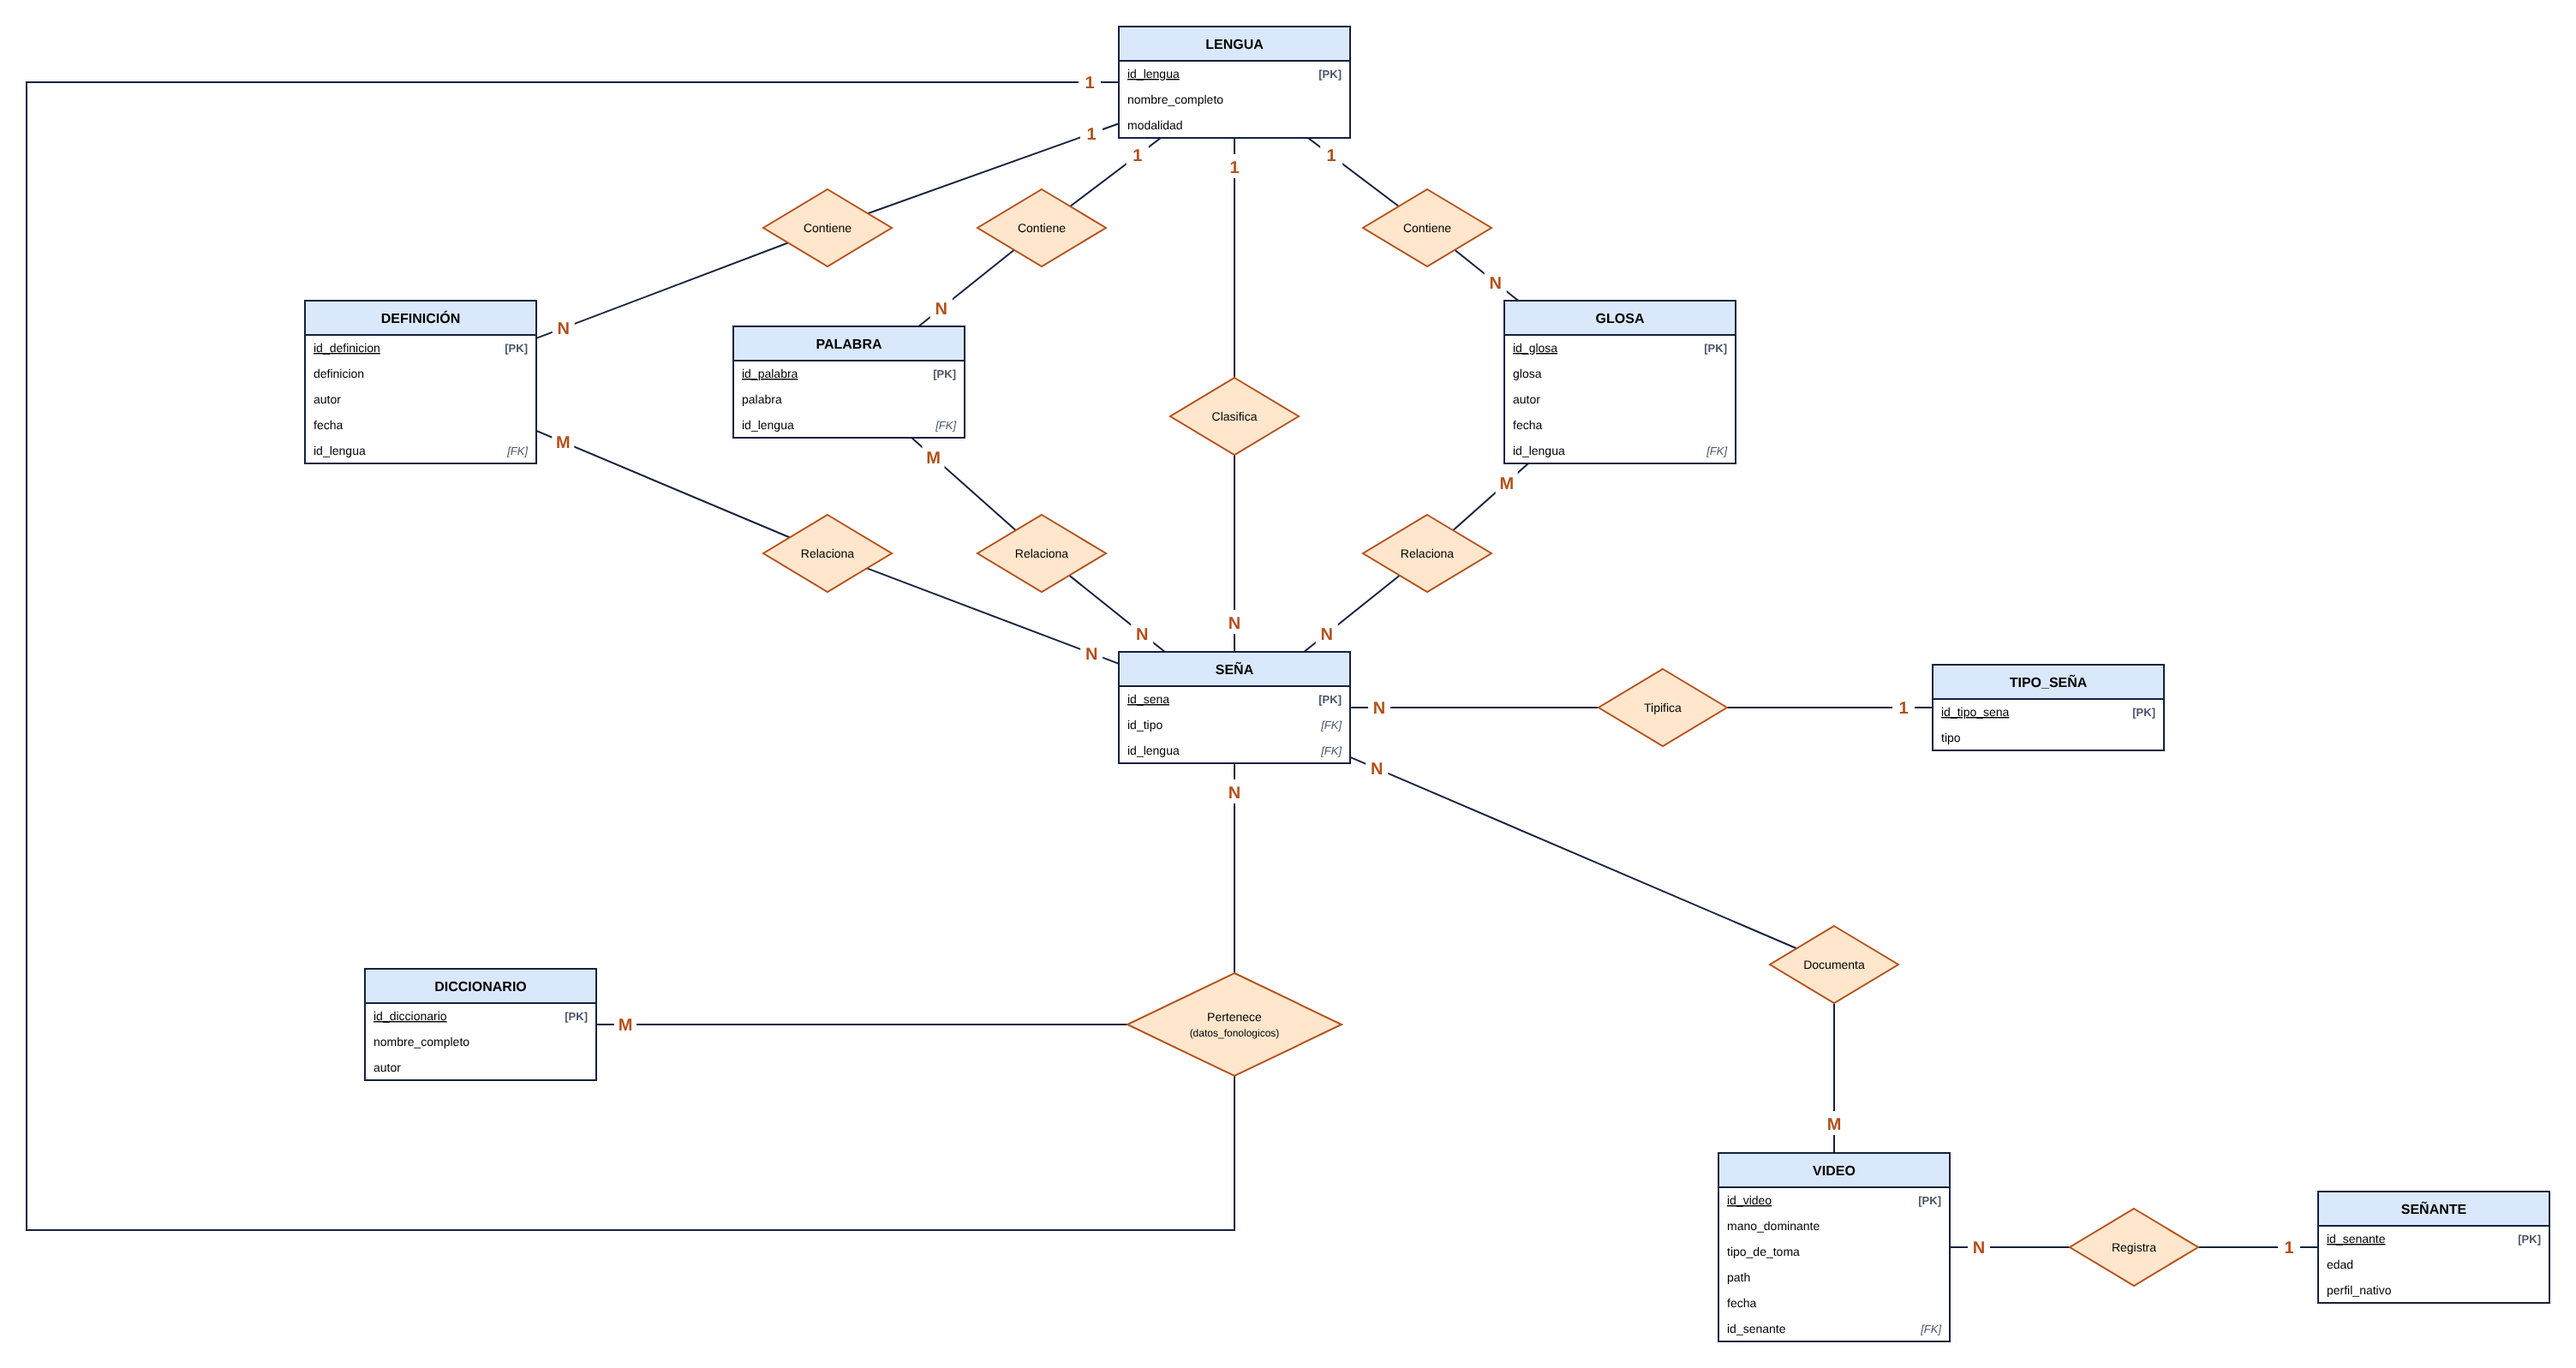
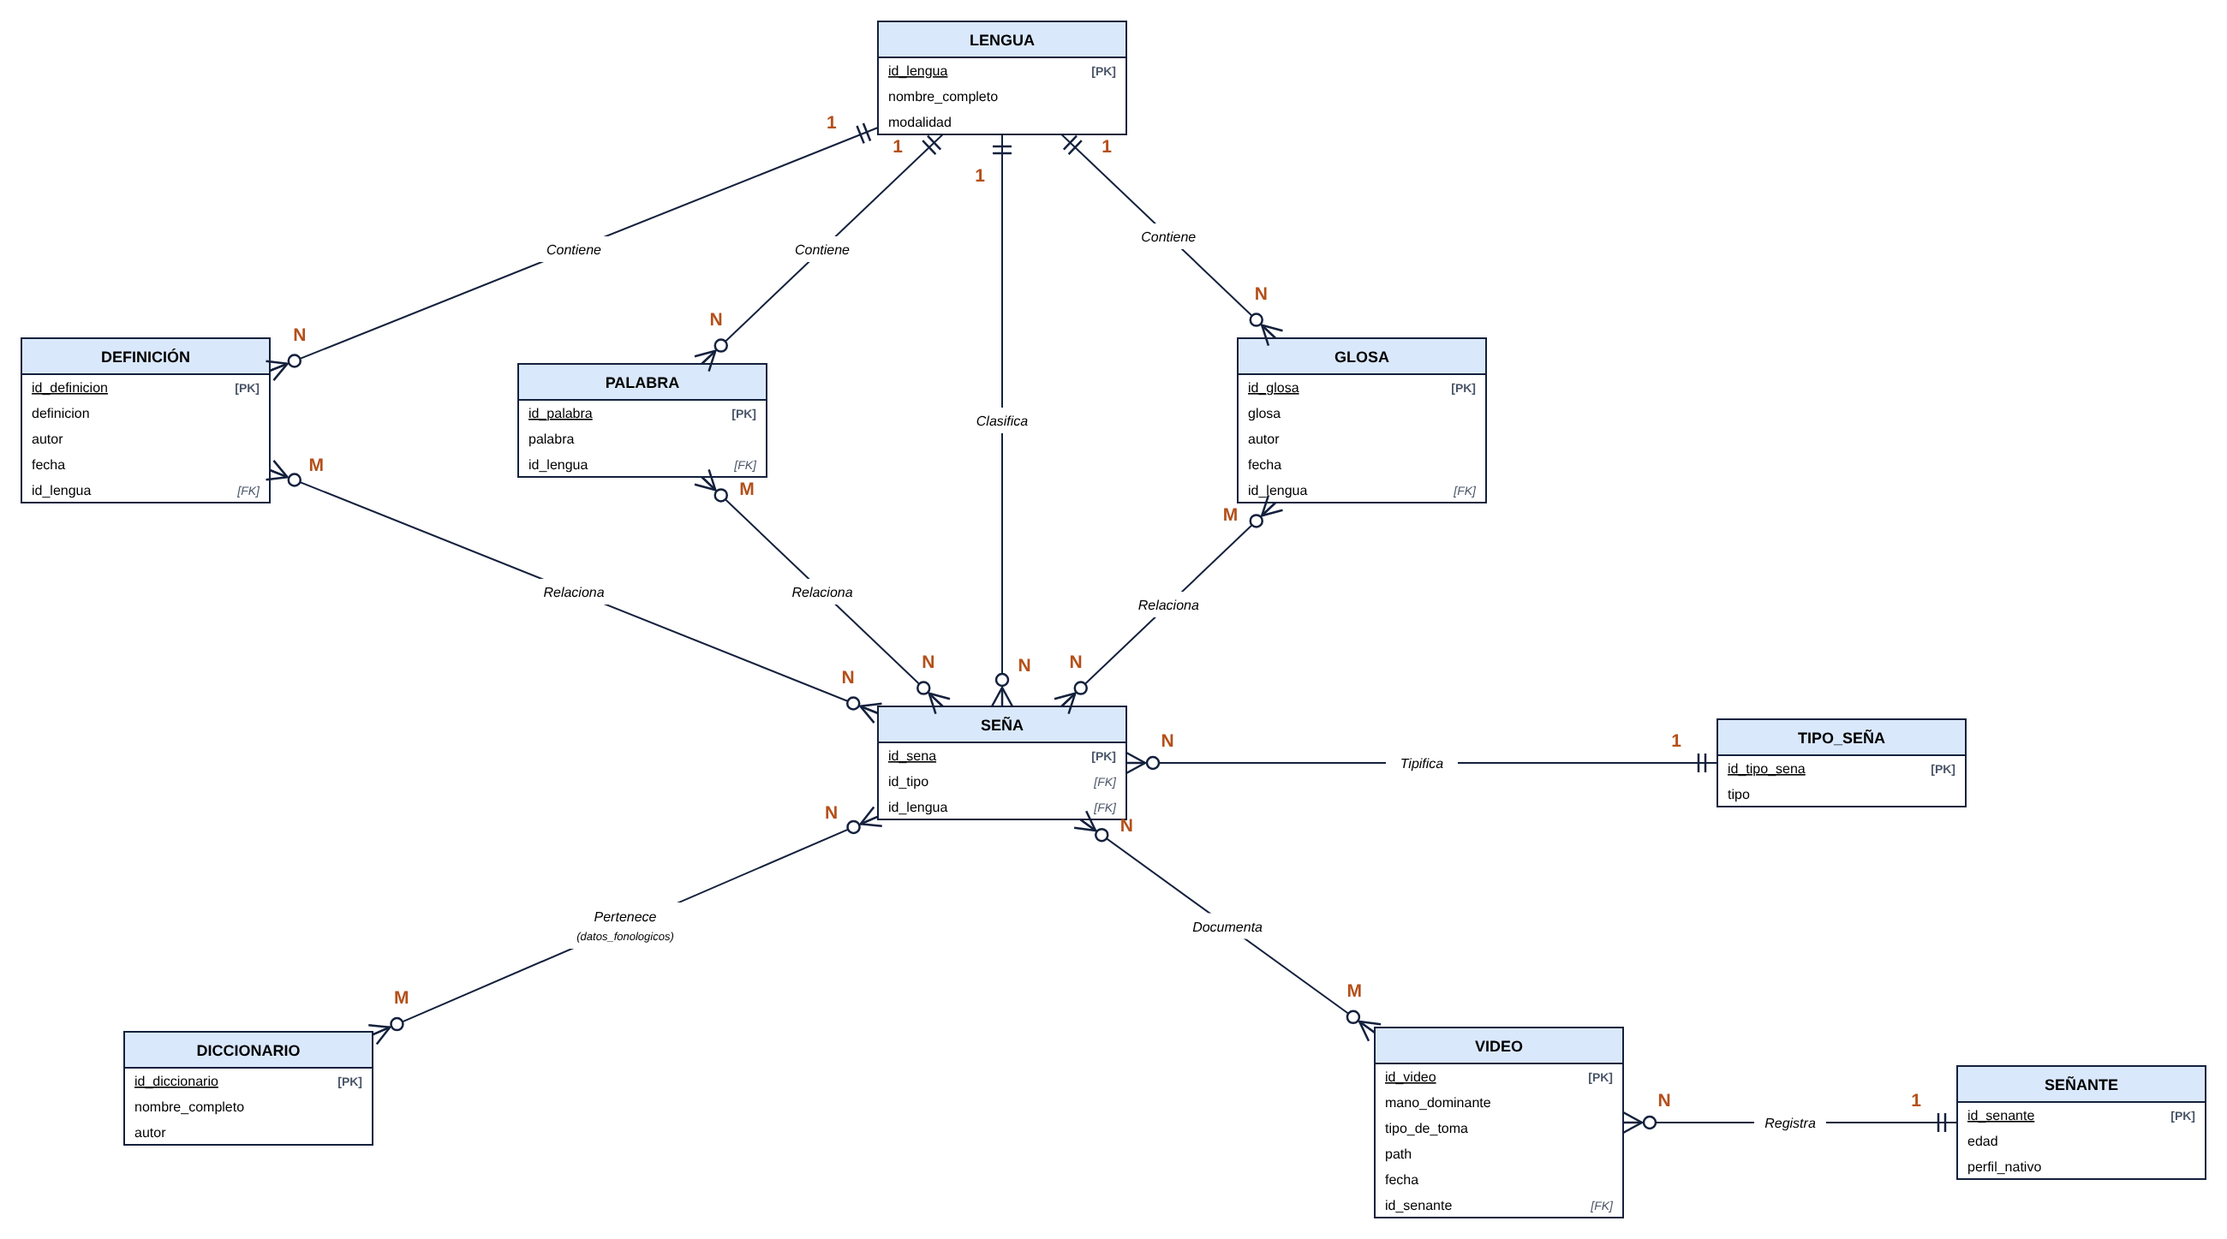
Diagrama ER en notación pata de gallo, sin rombos
Claude-Session: https://claude.ai/code/session_01RXhn55dbyqXR8nxkYV3Q8d

diff --git a/README.md b/README.md
@@ -36,7 +36,7 @@ Diccionario de Lengua de Señas Mexicana de la Ciudad de México (2017).
 | `docs/BITACORA.md` | Registro de discusiones y decisiones abiertas (mesa redonda pendiente) |
 | `docs/img/diagrama_er.png` | Diagrama entidad-relación actualizado |
 | `docs/img/modelo_er_chen.drawio` | Modelo entidad-relación en notación Chen (draw.io), sin tablas de cruce |
-| `docs/img/diagrama_er_cardinalidades.drawio` | Diagrama entidad-relación: entidades con atributos y cardinalidades 1/N/M (draw.io) |
+| `docs/img/diagrama_er_cardinalidades.drawio` | Diagrama entidad-relación en notación pata de gallo: entidades con atributos y cardinalidades 1/N/M, sin rombos (draw.io) |
 | `docs/MANUAL_RESPALDO.md` (y `.pdf`) | Respaldo, rollback y mudanza de la base: por CMD o por DBeaver |
 | `metadatos/generar_metadatos.sql` | Genera METADATOS (JSON aparte, fuera de la base) a partir de `datos_fonologicos`. Solo SELECT |
 | `metadatos/esquema_metadatos.txt` | Esquema de METADATOS: claves, obligatorias/opcionales, listas cerradas y ejemplos |
